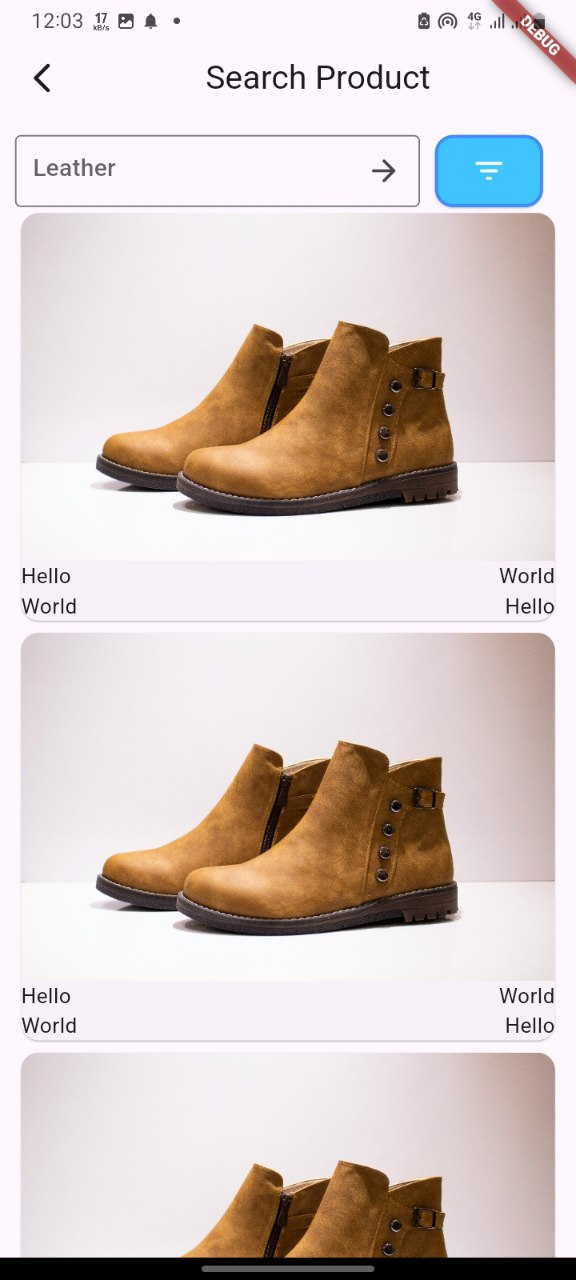
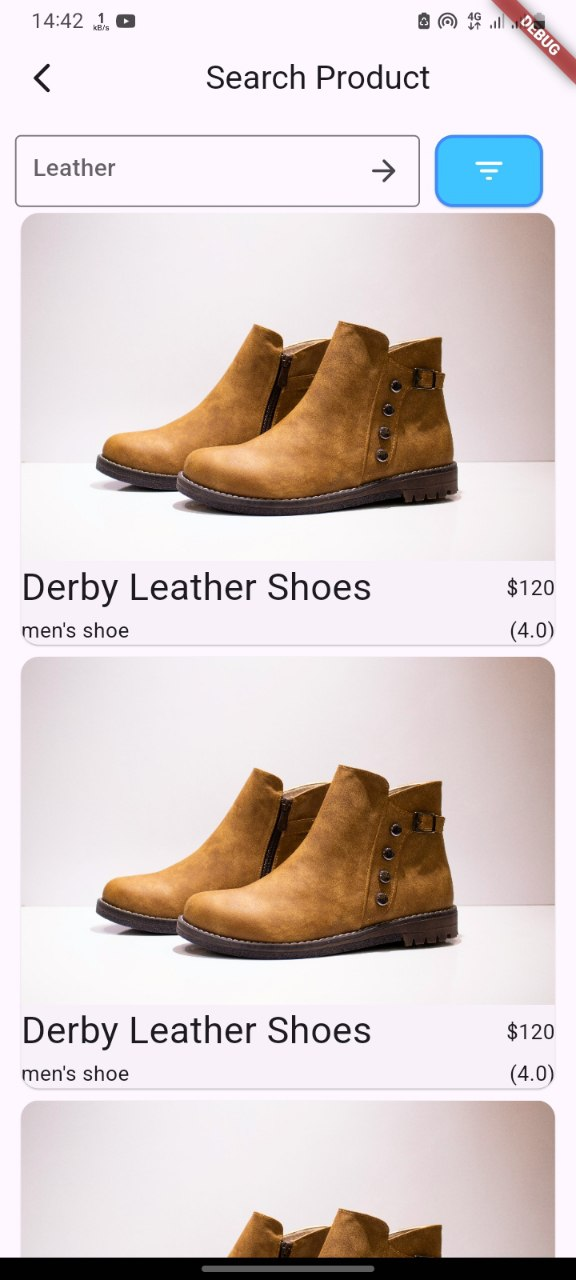
quick fixes

diff --git a/mobile/natnael.belay/ecommerce/lib/searchpage.dart b/mobile/natnael.belay/ecommerce/lib/searchpage.dart
@@ -128,19 +128,20 @@ List<Card> _buildCard(int count) {
               mainAxisAlignment: MainAxisAlignment.spaceBetween,
               children: [
                 Text(
-                  "Hello",
+                  "Derby Leather Shoes",
+									style: TextStyle(fontSize: 25)
                 ),
                 Text(
-                  "World",
+                  "\$120",
                 ),
               ],
             ),
             const Row(
               mainAxisAlignment: MainAxisAlignment.spaceBetween,
               children: [
-                Text("World"),
+                Text("men's shoe"),
                 Text(
-                  "Hello",
+                  "(4.0)",
                 ),
               ],
             )
